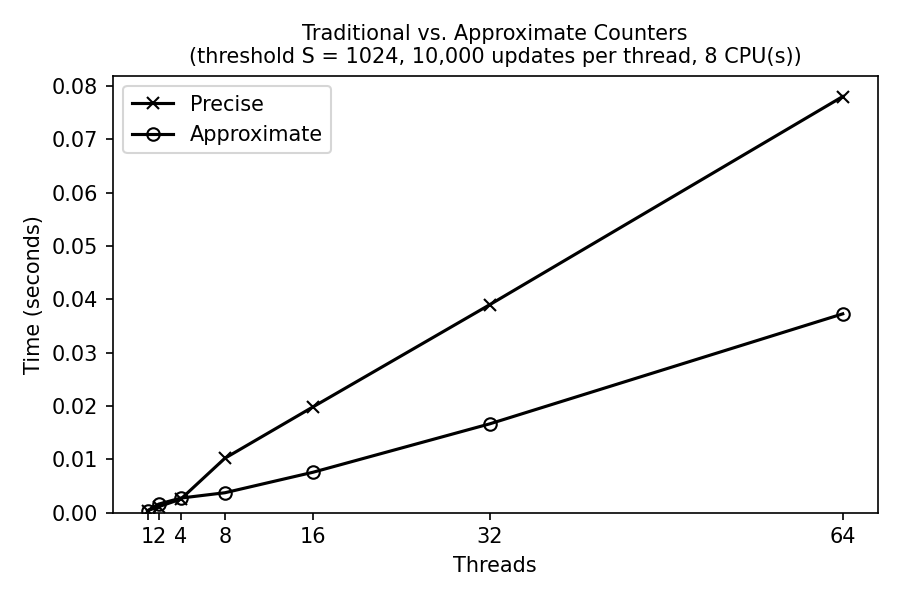
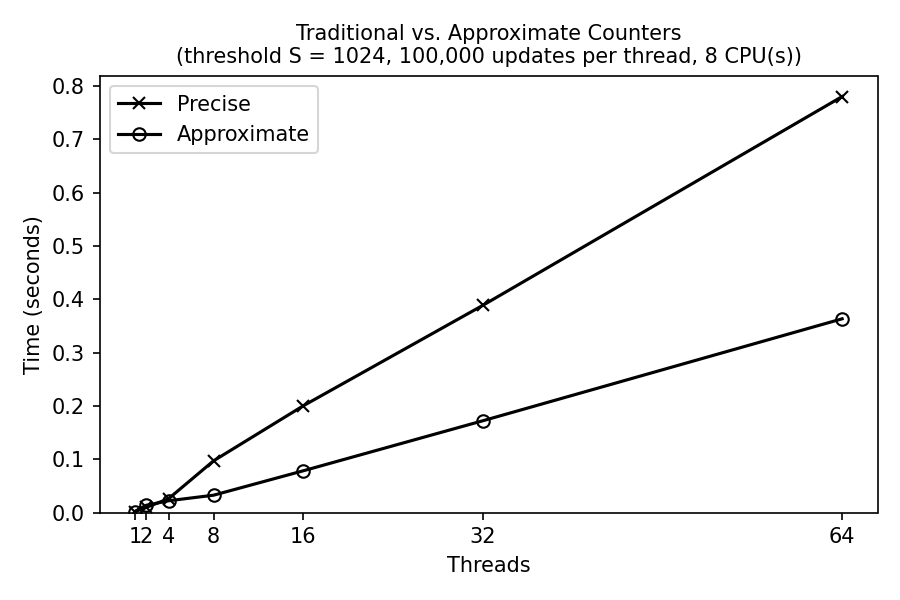
edits

diff --git a/cmsc125/synctools/ostep-ds/approximate-counter.c b/cmsc125/synctools/ostep-ds/approximate-counter.c
@@ -1,0 +1,101 @@
+/*
+ * Approximate (sloppy) counter (OSTEP, Chapter 29), using pthread_mutex.
+ *
+ * Each CPU has a local count with its own lock. Threads normally update
+ * only their local count. When a local count reaches `threshold`, it is
+ * transferred to the global count (protected by the global lock).
+ *
+ * Build: gcc -O2 -Wall -pthread approximate-counter.c -o approximate-counter
+ */
+#include <stdio.h>
+#include <pthread.h>
+
+#define NUMCPUS 4
+
+typedef struct __counter_t {
+    int global;                       // global count
+    pthread_mutex_t glock;            // global lock
+    int local[NUMCPUS];               // local count (per cpu)
+    pthread_mutex_t llock[NUMCPUS];   // ... and locks
+    int threshold;                    // update frequency
+} counter_t;
+
+// init: record threshold, init locks, init values
+//       of all local counts and global count
+void init(counter_t *c, int threshold) {
+    c->threshold = threshold;
+
+    c->global = 0;
+    pthread_mutex_init(&c->glock, NULL);
+
+    int i;
+    for (i = 0; i < NUMCPUS; i++) {
+        c->local[i] = 0;
+        pthread_mutex_init(&c->llock[i], NULL);
+    }
+}
+
+// update: usually, just grab local lock and update local amount
+//         once local count has risen by 'threshold', grab global
+//         lock and transfer local values to it
+void update(counter_t *c, int threadID, int amt) {
+    pthread_mutex_lock(&c->llock[threadID]);
+    c->local[threadID] += amt;                  // assumes amt > 0
+    if (c->local[threadID] >= c->threshold) {   // transfer to global
+        pthread_mutex_lock(&c->glock);
+        c->global += c->local[threadID];
+        pthread_mutex_unlock(&c->glock);
+        c->local[threadID] = 0;
+    }
+    pthread_mutex_unlock(&c->llock[threadID]);
+}
+
+// get: just return global amount (which may not be perfect)
+int get(counter_t *c) {
+    pthread_mutex_lock(&c->glock);
+    int val = c->global;
+    pthread_mutex_unlock(&c->glock);
+    return val;                                 // only approximate!
+}
+
+/* ---------------------------------------------------------------------
+ * Test: NTHREADS threads each add 1 to the counter NITERS times. Thread i
+ * uses local counter (i % NUMCPUS). After all threads finish, the global
+ * count may lag the true total by at most NUMCPUS * (threshold - 1),
+ * because each local count holds fewer than `threshold` unflushed updates.
+ * ------------------------------------------------------------------- */
+#define NTHREADS  8
+#define NITERS    1000000
+#define THRESHOLD 1024
+
+static counter_t counter;
+
+static void *worker(void *arg) {
+    int threadID = (int)(long)arg % NUMCPUS;
+    for (int i = 0; i < NITERS; i++)
+        update(&counter, threadID, 1);
+    return NULL;
+}
+
+int main(void) {
+    pthread_t threads[NTHREADS];
+
+    init(&counter, THRESHOLD);
+
+    for (long i = 0; i < NTHREADS; i++)
+        pthread_create(&threads[i], NULL, worker, (void *)i);
+    for (int i = 0; i < NTHREADS; i++)
+        pthread_join(threads[i], NULL);
+
+    int expected = NTHREADS * NITERS;
+    int got = get(&counter);
+    int max_error = NUMCPUS * (THRESHOLD - 1);
+
+    printf("true total   = %d\n", expected);
+    printf("get()        = %d\n", got);
+    printf("difference   = %d (allowed at most %d)\n", expected - got, max_error);
+
+    int ok = got <= expected && expected - got <= max_error;
+    printf("%s\n", ok ? "PASS" : "FAIL");
+    return ok ? 0 : 1;
+}
